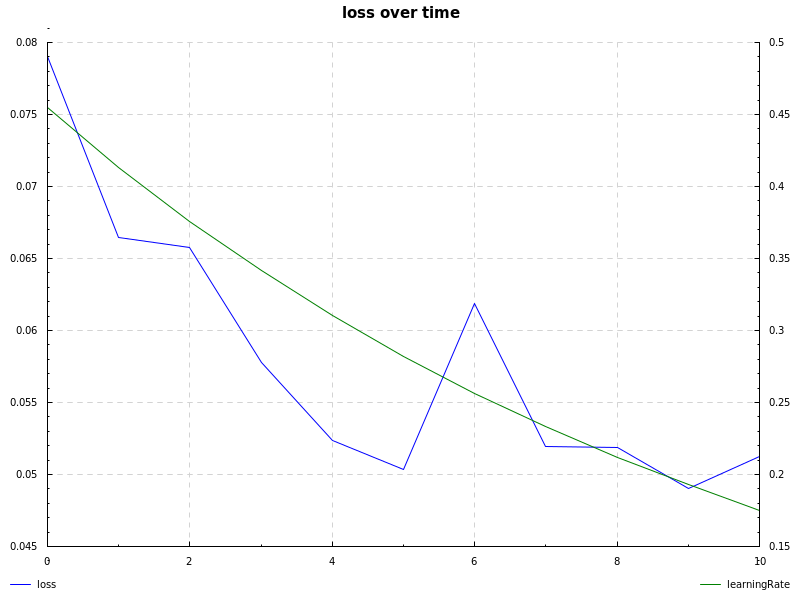
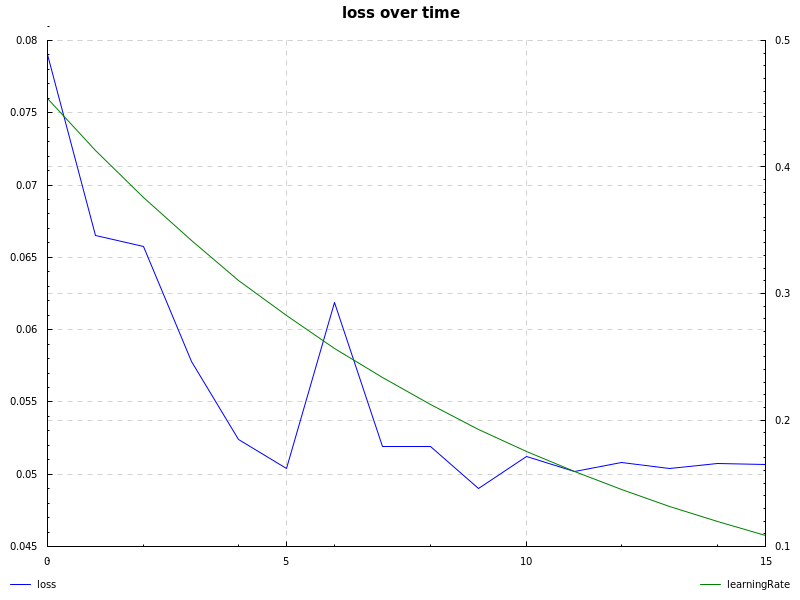
relu: run notmnist using relu activation and draw the chart [wip] word2vec: work in progress implementation of word2vec

diff --git a/README.md b/README.md
@@ -60,5 +60,8 @@ stack exec example-naivebayes-doc-classifier -- --verbose --top-ten
 
 ### notMNIST
 
-notMNIST dataset, cross-entropy loss, learning rate decay and sgd ([`notmnist.hs`](https://github.com/mdibaiee/sibe/blob/master/examples/notmnist.hs)):
+notMNIST dataset, sigmoid hidden layer, cross-entropy loss, learning rate decay and sgd ([`notmnist.hs`](https://github.com/mdibaiee/sibe/blob/master/examples/notmnist.hs)):
+![notMNIST](https://github.com/mdibaiee/sibe/blob/master/notmnist.png?raw=true)
+
+notMNIST dataset, relu hidden layer, cross-entropy loss, learning rate decay and sgd ([`notmnist.hs`](https://github.com/mdibaiee/sibe/blob/master/examples/notmnist.hs)):
 ![notMNIST](https://github.com/mdibaiee/sibe/blob/master/notmnist.png?raw=true)
